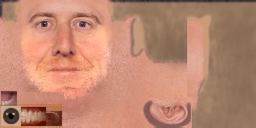
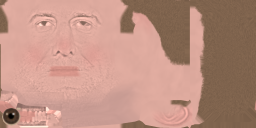
cm1: seven more coach heads painted in 3D (MIA, DET, CLE, NE, ATL, JAX, NYG) and Liam Coen's lean body
From the 32-coach audit, the faces co2 left weak or too dark: Hafley's orange smile line, Campbell's and Monken's orange
skin, Vrabel's and Stefanski's grey beards (now grey, not dark), Coen's thin blond hair (now full light brown), and
Harbaugh's grimace (less photo detail). Coen's c30 has its own vertex order: his slimmer build comes over by position
from c28 (the same build) to the lean c12. cm1_repair owns these scenes too (18 in all). A hair-volume sculpt
(hair_volume) is in the tool for later; McVay's spikes were tried and not shipped (too few scalp vertices).

Claude-Session: https://claude.ai/code/session_01WKYAfLhiCRdZsnsRVwQWxe

diff --git a/tools/b77/cm1_coach_models.py b/tools/b77/cm1_coach_models.py
@@ -152,6 +152,76 @@ RECIPES: dict[str, dict] = {
             facial=[dict(kind="stubble", parts=("moustache", "corners", "chin", "cheeks", "neck"), colour=(64, 58, 56),
                          density=0.45, light=0.3, light_colour=(140, 136, 132))]),
     },
+    # Jeff Hafley: fair skin (co2's was orange with a dark line at the smile); short brown hair receding at the temples;
+    # a light brown-grey stubble
+    "MIA": {
+        "who": "Jeff Hafley",
+        "head": dict(
+            skin=(212, 162, 142), warm=(208, 142, 124), neck=0.08, lips=(192, 120, 106), brows=(96, 74, 60),
+            hair=dict(colour=(96, 76, 60), front=47.0, recede=1.7, side=43.5, back=34.5, sideburn=38.8),
+            facial=[dict(kind="stubble", parts=("moustache", "corners", "chin", "cheeks"), colour=(112, 100, 92),
+                         density=0.16)]),
+    },
+    # Dan Campbell: fair, ruddy skin; short grey-brown hair; a grey moustache and goatee
+    "DET": {
+        "who": "Dan Campbell",
+        "head": dict(
+            skin=(214, 160, 144), warm=(212, 138, 124), neck=0.08, lips=(192, 118, 108), brows=(118, 98, 86),
+            hair=dict(colour=(112, 98, 88), grey=0.3, grey_colour=(176, 172, 166), front=47.0, recede=1.4, side=43.2,
+                      back=34.5, sideburn=38.8),
+            facial=[dict(parts=("moustache", "corners", "chin"), colour=(118, 110, 104), density=0.85, light=0.4,
+                         light_colour=(204, 200, 192)),
+                    dict(kind="stubble", parts=("cheeks",), colour=(150, 144, 138), density=0.15)]),
+    },
+    # Todd Monken: fair, ruddy skin (co2's c00 head was a dark 2004 head pulled light, still too orange); full white-grey
+    # hair; clean-shaven
+    "CLE": {
+        "who": "Todd Monken",
+        "head": dict(
+            skin=(218, 156, 136), warm=(214, 134, 116), neck=0.08, lips=(196, 122, 110), brows=(160, 140, 126),
+            hair=dict(colour=(196, 190, 184), front=46.6, recede=1.0, side=43.5, back=34.5, sideburn=39.0)),
+    },
+    # Mike Vrabel: fair skin; short salt-and-pepper hair; a short grey stubble beard (light grey, never a smudge)
+    "NE": {
+        "who": "Mike Vrabel",
+        "head": dict(
+            skin=(206, 156, 144), warm=(204, 136, 126), neck=0.08, lips=(186, 118, 110), brows=(84, 70, 64),
+            hair=dict(colour=(80, 72, 70), grey=0.45, grey_colour=(172, 168, 166), front=46.8, recede=1.2, side=43.2,
+                      back=34.5, sideburn=38.6),
+            facial=[dict(kind="stubble", parts=("moustache", "corners", "chin", "cheeks", "neck"), colour=(104, 100, 98),
+                         density=0.6, light=0.45, light_colour=(196, 192, 188))]),
+    },
+    # Kevin Stefanski: fair skin; short grey hair; a short grey beard heaviest on the chin
+    "ATL": {
+        "who": "Kevin Stefanski",
+        "head": dict(
+            skin=(212, 156, 138), warm=(208, 136, 120), neck=0.08, lips=(190, 118, 106), brows=(100, 82, 74),
+            hair=dict(colour=(112, 106, 102), grey=0.5, grey_colour=(176, 172, 168), front=46.8, recede=1.0, side=43.4,
+                      back=34.5, sideburn=38.6),
+            facial=[dict(parts=("moustache", "corners", "chin"), colour=(120, 116, 112), density=0.85, light=0.45,
+                         light_colour=(196, 192, 188)),
+                    dict(kind="stubble", parts=("cheeks", "neck"), colour=(112, 108, 104), density=0.45, light=0.4,
+                         light_colour=(190, 186, 182))]),
+    },
+    # Liam Coen: very fair, pink skin; full light-brown hair (co2's read thin and blond on the short 2004 layout);
+    # clean-shaven; an athletic build (c30 is heavy-ish and has its own vertex order: the slim build comes over by
+    # position from c28, which has the same build, to the lean c12)
+    "JAX": {
+        "who": "Liam Coen",
+        "body": dict(donor="12", via="28"),
+        "head": dict(
+            skin=(222, 170, 158), warm=(218, 148, 140), neck=0.08, lips=(204, 128, 118), brows=(128, 100, 84),
+            hair=dict(colour=(128, 100, 78), front=46.6, recede=0.6, side=43.6, back=34.2, sideburn=39.0)),
+    },
+    # John Harbaugh: fair skin; dark grey hair under the cap, greying at the sides; clean-shaven (co2's grin read as a
+    # grimace: less of the photo's fine detail)
+    "NYG": {
+        "who": "John Harbaugh",
+        "head": dict(
+            skin=(216, 166, 148), warm=(212, 146, 130), neck=0.08, lips=(196, 124, 112), brows=(80, 66, 60), detail=0.55,
+            hair=dict(colour=(66, 58, 54), grey=0.2, grey_sides=0.35, grey_colour=(160, 156, 152), front=46.8, recede=1.0,
+                      side=43.5, back=34.5, sideburn=38.8)),
+    },
     # Kevin O'Connell: fair skin; light-brown hair, a little receded; clean-shaven; lean and tall
     "MIN": {
         "who": "Kevin O'Connell",
@@ -313,6 +383,22 @@ def bald_cranium(P, T, N, ears, *, centre, front, side, back, low=1.5, high=2.5,
     return P - (w * (t_side + (t_top - t_side) * up ** 2))[:, None] * N
 
 
+def hair_volume(P, N, ears, *, front, amount, crown=0.5, back=0.15, low=0.6, high=2.0, centre=(0.0, 41.0, 7.5)):
+    """More hair on a 2004 head (a fuller or spiked top): the scalp above the front hairline moves outward along its
+    normal, ``amount`` cm over the front of the top, ``crown`` x that at the crown and ``back`` x at the back, faded in
+    above the hairline and kept off the ears."""
+    d = P - np.asarray(centre, float)
+    w = smoothstep(front - low, front + high, P[:, 1])
+    frontness = smoothstep(-6.0, 12.0, d[:, 2])                  # 0 at the back of the head, 1 at the forehead
+    profile = back + (1.0 - back) * frontness
+    profile = profile * (crown + (1 - crown) * smoothstep(3.0, 9.0, d[:, 2]))
+    if ears.any():
+        E = P[ears]
+        dist = np.sqrt(((P[:, None, :] - E[None, :, :]) ** 2).sum(-1)).min(1)
+        w = w * smoothstep(1.0, 3.0, dist)
+    return P + (w * amount * profile)[:, None] * N
+
+
 def carried_normals(words, P_old, P_new, T):
     """The shape's own normals carried through the change (only where a vertex or a neighbour moved)."""
     n0 = np.array([models.decode_normpacked3(int(w)) for w in words])
@@ -377,7 +463,17 @@ def make_geometry(scene: Scene, recipe: dict, donor: "Scene | None" = None) -> t
     head, body, lod = (scene.shapes[n] for n in ("coachHeadGrp1", "coachBodyGrp1", "coachLodGrp1"))
     new, normals = {}, {}
     offset = scene.joints["coachBodyGrp1:thorax"] - scene.joints["coachHeadGrp1:thorax"]
-    if "body" in recipe:
+    if "body" in recipe and recipe["body"].get("via"):
+        # a model with its own vertex order (c30): the change from the "via" body (same build, another family) to
+        # the donor is carried over by position (each vertex takes the move of the via body's vertices around it)
+        via, dn = donor
+        Pv = via.shapes["coachBodyGrp1"]["P"]
+        keep_v = smoothstep(58.0, 64.0, Pv[:, 1])[:, None]
+        Dv = (1 - keep_v) * (dn.shapes["coachBodyGrp1"]["P"] - Pv)
+        Db = carry_field(Pv, Dv, body["P"], 1.5, 0.5)
+        new["coachBodyGrp1"] = body["P"] + Db
+        new["coachLodGrp1"] = lod["P"] + carry_field(body["P"], Db, lod["P"], 6.0, 2.5)
+    elif "body" in recipe:
         Qb = body_from_donor(body, donor.shapes["coachBodyGrp1"])
         Db = Qb - body["P"]
         new["coachBodyGrp1"] = Qb
@@ -389,6 +485,14 @@ def make_geometry(scene: Scene, recipe: dict, donor: "Scene | None" = None) -> t
         normals["coachBodyGrp1"] = nb / np.maximum(np.linalg.norm(nb, axis=1, keepdims=True), 1e-9)
         # the low-detail body follows the same change (its vertices take the move of the body around them)
         new["coachLodGrp1"] = lod["P"] + carry_field(body["P"], Db, lod["P"], 6.0, 2.5)
+    if "hair_volume" in recipe:
+        Ph = head["P"]
+        Qh = hair_volume(Ph, vertex_normals(Ph, tris_of(head)), ear_mask(head), **recipe["hair_volume"])
+        Dh = Qh - Ph
+        new["coachHeadGrp1"] = Qh
+        Pb = new.get("coachBodyGrp1", body["P"]); Pl = new.get("coachLodGrp1", lod["P"])
+        new["coachBodyGrp1"] = Pb + carry_field(Ph + offset, Dh, body["P"], 2.5, 1.0)
+        new["coachLodGrp1"] = Pl + carry_field(Ph + offset, Dh, lod["P"], 3.0, 1.2)
     if "bald" in recipe:
         Ph = head["P"]
         Qh = bald_cranium(Ph, tris_of(head), vertex_normals(Ph, tris_of(head)), ear_mask(head), **recipe["bald"])
@@ -723,6 +827,9 @@ def cmd_geometry(args) -> int:
         if "body" in recipe:
             name = f"c{recipe['body']['donor']}.iff"
             donor = Scene(read_archive(args.retail, name), name)
+            if recipe["body"].get("via"):
+                via = f"c{recipe['body']['via']}.iff"
+                donor = (Scene(read_archive(args.retail, via), via), donor)
         doc, _new = make_geometry(scene, recipe, donor)
         # spaced separators: plain short text tokens (the release gate refuses long whitespace-free runs as blobs)
         text = json.dumps(doc, separators=(", ", ": ")) + "\n"

diff --git a/tools/b77/cm1_repair.py b/tools/b77/cm1_repair.py
@@ -1,18 +1,22 @@
 #!/usr/bin/env python3
 """cm1: carry the b77 cm1 coach-model change into a copy of the v0.6.1 disc, in place, with receipts.
 
-What cm1 changes on a disc: the coach scene (``cNN.iff`` chunk 0, one fixed span each) of eleven clubs.
+What cm1 changes on a disc: the coach scene (``cNN.iff`` chunk 0, one fixed span each) of eighteen clubs.
 
 * Washington (Dan Quinn, c29): a bald head (the 2004 hair volume off the scalp, the headset band and the low-detail
   head following), a new head texture (one pale skin tone, his white goatee, no hair layout);
 * Dallas (Brian Schottenheimer, c07): a new head texture (a grey, salt-and-pepper beard instead of the dark smudge);
 * the Jets (Aaron Glenn, c19) and Tampa Bay (Todd Bowles, c27): new head textures (natural brown skin instead of a
   saturated red or orange, Glenn's white goatee, Bowles's grey-black beard and brown eyes);
+* Miami, Detroit, Cleveland, New England, Atlanta and the Giants (c14, c04, c00, c16, c01, c22): new head textures
+  (one natural skin tone, grey beards and stubble that read grey, not dark; Harbaugh's grin softened);
+* Jacksonville (Liam Coen, c30): a lean body (carried by position, c30 has its own vertex order) and a new head
+  (full light-brown hair instead of a thin blond layout);
 * Cincinnati, Carolina, Green Bay, Tennessee, the Rams, San Francisco, Minnesota (c06, c09, c10, c15, c23, c25, c28):
   a lean body taken from a leaner retail coach of the same mesh family, and a new head texture.
 
 Everything else on the disc is left as it is. The input must be the v0.6.1 shortcut disc, or co3's output of it (the two
-Coach Matchup pictures already replaced); any other hash is refused. Those eleven scenes must read ``previous`` (the
+Coach Matchup pictures already replaced); any other hash is refused. Those eighteen scenes must read ``previous`` (the
 co2 coaches the v0.6.1 disc carries) and every other coach part ``applied``. The scenes are compiled from the user's
 retail image (``--retail``), exactly as a Studio build compiles them.
 
@@ -43,7 +47,8 @@ INPUTS = {
[1 lines of base64/hex data omitted]
 }
 INPUT_SIZE = 6_004_408_320
-OWNED = ("WAS", "DAL", "CIN", "CAR", "GB", "TEN", "LAR", "SF", "MIN", "NYJ", "TB")
+OWNED = ("WAS", "DAL", "CIN", "CAR", "GB", "TEN", "LAR", "SF", "MIN", "NYJ", "TB", "MIA", "DET", "CLE", "NE", "ATL", "JAX",
+         "NYG")
 BLOCK = 1 << 23
 
 

diff --git a/mod_editor/core/nfl2k5_modern_coaches.py b/mod_editor/core/nfl2k5_modern_coaches.py
@@ -50,10 +50,10 @@ texture (an authored weight mask and glasses overlay, integer arithmetic), so no
 Coach models (b77 cm1): where the 2004 model cannot reach the 2026 coach by texture alone, ``<club>/geometry.json``
 moves the scene's own vertices (``apply_geometry``: integer positions and normals of the vertices that move, refused on
 any mesh but the one each shape was authored on). Washington's Dan Quinn has a bald head (the 2004 hair volume off the
-scalp; the headset band and the low-detail head follow); seven lean coaches (CIN, CAR, GB, TEN, LAR, SF, MIN) wear the
-lean body of a retail coach of the same mesh family. The vertex count, triangles, skin weights, skeleton and animations
-are retail. Their heads, and those of Dallas, the Jets and Tampa Bay, are painted on the head mesh in 3D (one skin
-tone, painted hair and facial hair).
+scalp; the headset band and the low-detail head follow); eight lean coaches (CIN, CAR, GB, TEN, LAR, SF, MIN, JAX) wear
+the lean body of a leaner retail coach. The vertex count, triangles, skin weights, skeleton and animations
+are retail. Their heads, and those of DAL, NYJ, TB, MIA, DET, CLE, NE, ATL and NYG, are painted on the head mesh in
+3D (one skin tone, painted hair and facial hair).
 
 EXPERIMENTAL and UNWITNESSED: proved offline (decoded textures, byte receipts, renders from the data); the look in
 the game is for Noah's eyes.

diff --git a/tools/b77/modern_art_png_catalog.py b/tools/b77/modern_art_png_catalog.py
@@ -32,8 +32,8 @@ CLASSIFICATION = ("Reviewed authored 2026/2025-26 art for the modern coaches (co
                   "likeness textures ship, the reference photos never do). The two Coach Matchup pictures (7031 Dallas, 7034 "
                   "Washington) are renders of the game's own coach for that club, not photographs. The accessories atlas "
                   "ships only its authored headset half (headset.png); the shoe and clipboard come from the user's disc. "
-                  "b77 cm1 repainted eleven coach heads (WAS, DAL, CIN, CAR, GB, TEN, LAR, SF, MIN, NYJ, TB) in 3D on the "
-                  "head mesh: "
+                  "b77 cm1 repainted eighteen coach heads (WAS, DAL, CIN, CAR, GB, TEN, LAR, SF, MIN, NYJ, TB, MIA, DET, CLE, "
+                  "NE, ATL, JAX, NYG) in 3D on the head mesh: "
                   "one painted skin tone, painted hair and facial hair, and only the fine feature detail of co2's "
                   "authored faces. "
                   "No photograph or photo crop and no retail-extracted pixels are listed; retail details are taken from "

diff --git a/tests/mod_editor/test_nfl2k5_modern_coaches.py b/tests/mod_editor/test_nfl2k5_modern_coaches.py
@@ -31,7 +31,7 @@ TEAMS = {"ARI", "ATL", "BAL", "BUF", "CAR", "CHI", "CIN", "CLE", "DAL", "DEN", "
 SIZES = {"shirt": (128, 128), "jacket": (128, 128), "logo": (64, 64), "headset": (64, 64), "head": (256, 128),
          "head_mask": (256, 128), "head_overlay": (256, 128), "sideline_dry": (256, 256), "sideline_rain": (256, 256)}
 # cm1: the clubs whose coach scene carries authored vertex edits (WAS: the bald head; the others: a lean body)
-GEOMETRY = {"WAS", "CIN", "CAR", "GB", "TEN", "LAR", "SF", "MIN"}
+GEOMETRY = {"WAS", "CIN", "CAR", "GB", "TEN", "LAR", "SF", "MIN", "JAX"}
 # co2: the club whose coach wears another retail body, and the body (cNN) he wears
 MOVED = {"ARI": "12", "CAR": "09", "CHI": "37", "CLE": "00", "DET": "04", "HOU": "05", "JAX": "30", "KC": "21",
          "MIN": "28", "NYG": "22", "PHI": "18", "PIT": "26", "SEA": "13", "TEN": "15"}

diff --git a/packaging/check_2k5_mod_studio_release.py b/packaging/check_2k5_mod_studio_release.py
@@ -332,7 +332,7 @@ ANNIVERSARY_FIELD_PNG_CATALOG_SHA256 = "bd57194fa4708fe8c5c45b5dcdcbe4c9195594dc
 # reviewed as authored art: no photograph or photo crop and no retail-extracted pixels. It grants no general PNG
 # exception inside those folders; tools/b77/modern_art_png_catalog.py regenerates it and prints the digest below.
 MODERN_ART_PNG_CATALOG = "packaging/nfl2k5_modern_art_pngs.json"
[2 lines of base64/hex data omitted]
 
 
 def _scorebug_template_pngs(root: Path) -> dict:

diff --git a/data/nfl2k5_modern_coaches/README.md b/data/nfl2k5_modern_coaches/README.md
@@ -11,8 +11,8 @@ texture packs, not this repository):
 | `logo.png` 64x64 | `shirtLogoShader1`, `jacketLogoShader1` | the club's 2026 logo where the chest mark quad samples (v 0.41-1.11); the 2004 maker mark is gone |
 | `headset.png` 64x64 | `accessoriesShader1`, `clipboardShader1` (the left half, x < 64, of the 128x64 atlas) | unbranded matte black headset (the 2004 earcup and band marks are gone). The shoe and clipboard half of the atlas is not shipped: the build derives it from the user's own disc texture (`derive_accessories`, the 4x bicubic round trip the art was authored through, in integers), so the disc bytes equal those of the earlier full-atlas file (b77 co3) |
 | `head.png` 256x128 | `headShader1` | the 2026 head coach's face moved onto the retail head of the body he wears (co2: 468-point landmark warp, the photo's lighting removed, the 2004 shading kept, Poisson-blended, closed mouth, his hair colour on the model's hair layout) |
-| `head.png` (cm1: WAS, DAL, CIN, CAR, GB, TEN, LAR, SF, MIN, NYJ, TB) 256x128 | `headShader1` | painted per texel at its 3D point on the head mesh (`tools/b77/cm1_coach_models.py head`): one skin tone over the whole head (no face oval, no seam where the UV islands meet), his hair painted above his hairline or a bald scalp, facial hair painted as shapes around the face rig (a grey beard reads grey, never a dark smudge on a light face), and only the fine feature detail (eyes, nose, mouth creases, ears) of co2's face; Tampa Bay's 2004 blue eye atlas recoloured brown |
-| `geometry.json` (cm1: WAS, CIN, CAR, GB, TEN, LAR, SF, MIN) | the coach scene's `coachHeadGrp1`, `coachBodyGrp1`, `coachLodGrp1` vertex lanes | authored vertex edits as integers: new NORMSHORT3 positions and NORMPACKED3 normals for the vertices that move, each shape pinned by the SHA-256 of its retail lanes. WAS: Dan Quinn's bald head (the 2004 hair volume off the scalp, up to 1 cm on the crown), with the headset band and the low-detail head following. The seven others: a lean body (torso, hips and legs of a leaner retail coach of the same mesh family; neck, headset, glasses and hands stay), with the low-detail body following. Same vertex count, triangles, skin weights, skeleton and animations |
+| `head.png` (cm1: WAS, DAL, CIN, CAR, GB, TEN, LAR, SF, MIN, NYJ, TB, MIA, DET, CLE, NE, ATL, JAX, NYG) 256x128 | `headShader1` | painted per texel at its 3D point on the head mesh (`tools/b77/cm1_coach_models.py head`): one skin tone over the whole head (no face oval, no seam where the UV islands meet), his hair painted above his hairline or a bald scalp, facial hair painted as shapes around the face rig (a grey beard reads grey, never a dark smudge on a light face), and only the fine feature detail (eyes, nose, mouth creases, ears) of co2's face; Tampa Bay's 2004 blue eye atlas recoloured brown |
+| `geometry.json` (cm1: WAS, CIN, CAR, GB, TEN, LAR, SF, MIN, JAX) | the coach scene's `coachHeadGrp1`, `coachBodyGrp1`, `coachLodGrp1` vertex lanes | authored vertex edits as integers: new NORMSHORT3 positions and NORMPACKED3 normals for the vertices that move, each shape pinned by the SHA-256 of its retail lanes. WAS: Dan Quinn's bald head (the 2004 hair volume off the scalp, up to 1 cm on the crown), with the headset band and the low-detail head following. The eight others: a lean body (torso, hips and legs of a leaner retail coach of the same mesh family; neck, headset, glasses and hands stay; JAX's c30 has its own vertex order, so its change comes over by position from c28, the same build, to the lean c12), with the low-detail body following. Same vertex count, triangles, skin weights, skeleton and animations |
 | `KC/head_mask.png` 256x128 | `headShader1` (c21) | Kansas City only, in place of head.png: R = weight, G = class x 80 (1 hair, 2 brows, 3 moustache) of the recolour the build applies to the disc's own 2004 Reid face |
 | `KC/head_overlay.png` 256x128 RGBA | `headShader1` (c21) | Kansas City only: Reid's glasses, painted (the 2004 Reid model has no glasses geometry) |
 | `sideline_dry.png` 256x256 | `coachshirt` in the club's four `?d?` team packages | the sideline staff's polo in the same colours |
